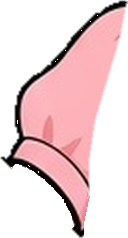
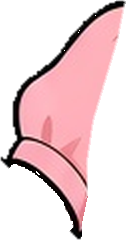
v4c: 원피스 밑단 디자인 변경(진한 자주 띠 c27j)·400% 검수 qa8

Changed region(s): [[0.0, 0.2353, 0.7143, 1.0], [0.4286, 0.0, 0.9286, 0.2941], [0.7381, 0.4706, 0.7619, 0.5]]

diff --git a/public/v4c-demo/src/build4.py b/public/v4c-demo/src/build4.py
@@ -46,7 +46,7 @@ brgb=rgb.copy();brgb[ERODE]=rgb[iy[ERODE],ix[ERODE]];bA[ERODE]=1
 OUTER=bodyM&armL&(np.arange(H)[:,None]>=950)&bd(bg,iterations=16)&~rest;KEEP=OUTER&(rgb.min(2)>150)&(alpha>0.95)&bd(rest,iterations=12);DJ=OUTER&(rgb.min(2)<200)&bd(rest,iterations=8);brgb[DJ]=rgb[DJ];bA[OUTER&~KEEP&~DJ]=0  # 교차점 8px만 외곽선 잇기 # 겨드랑이 피부만 깔개로 유지 # 팔 아래 외곽선은 팔 레이어만 소유
 save('body',brgb,bA,'chest');save('arm_R',rgb,alpha*armR*cR,'arm_R');cL=np.where((bA>0.99)&~((rgb.min(2)<200)&(np.arange(H)[:,None]>=1050)),cL,1.0)  # 팔 아래 외곽선은 램프 없음 # 깔개가 없는 곳은 팔이 불투명
 save('arm_L',rgb,alpha*armL*cL,'arm_L');save('head',rgb,alpha*head*cH,'head')
-OUT={'dress':('dress_c27fL','d27f'),'top':('sailor_c27e','saile'),'crop':('crop_c27e','crope')}
+OUT={'dress':('dress_c27jL','d27j'),'top':('sailor_c27e','saile'),'crop':('crop_c27e','crope')}
 for it,(src,mk) in OUT.items():
     orgb,_=key(R+f'x4/{src}_x2.png')
     m=np.asarray(Image.open(P+f'src/outfit/o_{mk}.png').getchannel('A').resize((W,H),Image.BILINEAR)).astype(float)/255

diff --git a/public/v4c-demo/src/progress.md b/public/v4c-demo/src/progress.md
@@ -85,3 +85,8 @@
 - 요술봉: prop_rot(크기·회전 -25°·이동)로 손가락 뒤를 지나게 배치, 손가락만 마스크로 뗀 arm_R_fing 레이어를 봉 위에 둠.
 - 400% 검수(qa7/zoom400_qa7.png): 치맛단 연한 테 1px 육안으로 희미하게 남음(검사기 통과, 엄격 기준 미합격 가능). 요술봉: 봉이 손가락 뒤로 지나가나 손이 편 손이라 '쥔' 느낌 약함. 겨드랑이·엄지·소매·티아라·크롭/세일러 c27e 소매단 이상 없음.
 - check_frames 4180(v4c) 640 통과, 4179(v4b·v3) 각 640 통과. vitest 63/63. cmp_build: 데모 외 차이는 sw.js(프리캐시 목록)뿐. 프리뷰 종료.
+
+## 14:06 지시: 밑단 디자인 변경
+- 3장 생성: h(진한 라즈베리 프릴), i(단순 밑단·진한 그림자), j(진한 자주 밑단 띠). 400%(qa8/hem_*.png): i는 밝은 테 남아 불합격, h는 프릴로 실루엣이 원래보다 길고 넓어짐, j는 띠→굵은 검은 외곽선 직결·테 없음 → j 채택.
+- 마스크 o_d27j(HUE r>130으로 자주색 포함), 2배 LANCZOS. 프레임 400%(hj_*.png) wave_000/012·idle_060 밑단 테 없음 → 합격.
+- 4180 check_frames 640 통과(이음새 0). 요술봉 미변경(사용자 결정 대기). 프리뷰 종료.
